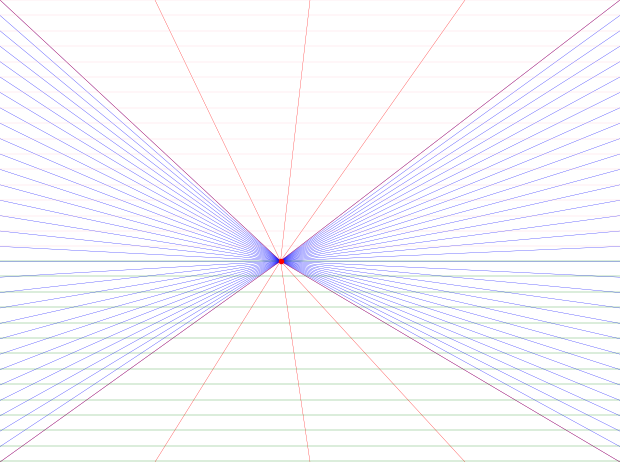
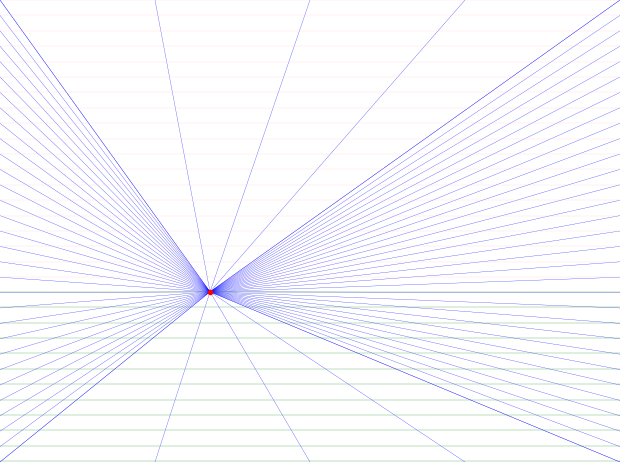
se trabaj em nuevas funciones

diff --git a/lineapp.py b/lineapp.py
@@ -95,13 +95,19 @@ class LineasDeFugaApp:
                 self.canvas.create_line(x, 0, x_fuga, y_fuga, fill=color, width=line_thickness)
                 self.canvas.create_line(x, self.height_px, x_fuga, y_fuga, fill=color, width=line_thickness)
             
-            # Dibujar líneas verdes horizontales debajo del punto de fuga
+            # Dibujar líneas verdes horizontales debajo del punto de fuga dentro del triángulo
             for y in range(y_fuga, self.height_px+1, int(self.dpi * horizontal_spacing)):
-                self.canvas.create_line(0, y, self.width_px, y, fill="green", width=line_thickness)
+                left_intercept_x = x_fuga - (x_fuga * (y - y_fuga) / y_fuga)
+                right_intercept_x = x_fuga + ((self.width_px - x_fuga) * (y - y_fuga) / y_fuga)
+                if left_intercept_x >= 0 and right_intercept_x <= self.width_px:
+                    self.canvas.create_line(left_intercept_x, y, right_intercept_x, y, fill="green", width=line_thickness)
             
-            # Dibujar líneas rosadas horizontales encima del punto de fuga
+            # Dibujar líneas rosadas horizontales encima del punto de fuga dentro del triángulo
             for y in range(0, y_fuga, int(self.dpi * horizontal_spacing)):
-                self.canvas.create_line(0, y, self.width_px, y, fill="pink", width=line_thickness)
+                left_intercept_x = x_fuga - (x_fuga * (y_fuga - y) / y_fuga)
+                right_intercept_x = x_fuga + ((self.width_px - x_fuga) * (y_fuga - y) / y_fuga)
+                if left_intercept_x >= 0 and right_intercept_x <= self.width_px:
+                    self.canvas.create_line(left_intercept_x, y, right_intercept_x, y, fill="pink", width=line_thickness)
 
     def cambiar_fondo(self):
         color = colorchooser.askcolor()[1]
@@ -141,26 +147,12 @@ class LineasDeFugaApp:
             ax.plot([x, x_fuga], [0, y_fuga], color=color, linewidth=line_thickness, alpha=line_alpha)
             ax.plot([x, x_fuga], [self.height_px, y_fuga], color=color, linewidth=line_thickness, alpha=line_alpha)
         
-        # Dibujar líneas verdes horizontales debajo del punto de fuga
+        # Dibujar líneas verdes horizontales debajo del punto de fuga dentro del triángulo
         for y in range(y_fuga, self.height_px+1, int(self.dpi * horizontal_spacing)):
-            ax.plot([0, self.width_px], [y, y], color="green", linewidth=line_thickness, alpha=line_alpha)
-        
-        # Dibujar líneas rosadas horizontales encima del punto de fuga
-        for y in range(0, y_fuga, int(self.dpi * horizontal_spacing)):
-            ax.plot([0, self.width_px], [y, y], color="pink", linewidth=line_thickness, alpha=line_alpha)
-        
-        # Dibujar punto de fuga
-        ax.plot(x_fuga, y_fuga, 'ro', markersize=1)
+            left_intercept_x = x_fuga - (x_fuga * (y - y_fuga) / y_fuga)
+            right_intercept_x = x_fuga + ((self.width_px - x_fuga) * (y - y_fuga) / y_fuga)
+            if left_intercept_x >= 0 and right_intercept_x
 
-        plt.axis('off')
-        plt.gca().set_facecolor((0,0,0,0))  # Hacer el fondo transparente
-        plt.savefig('lineas_de_fuga.png', bbox_inches='tight', pad_inches=0, transparent=True)
-        plt.close(fig)
-
-if __name__ == "__main__":
-    root = tk.Tk()
-    app = LineasDeFugaApp(root, width_cm=4, height_cm=3, dpi=200)
-    root.mainloop()
 
 
 
